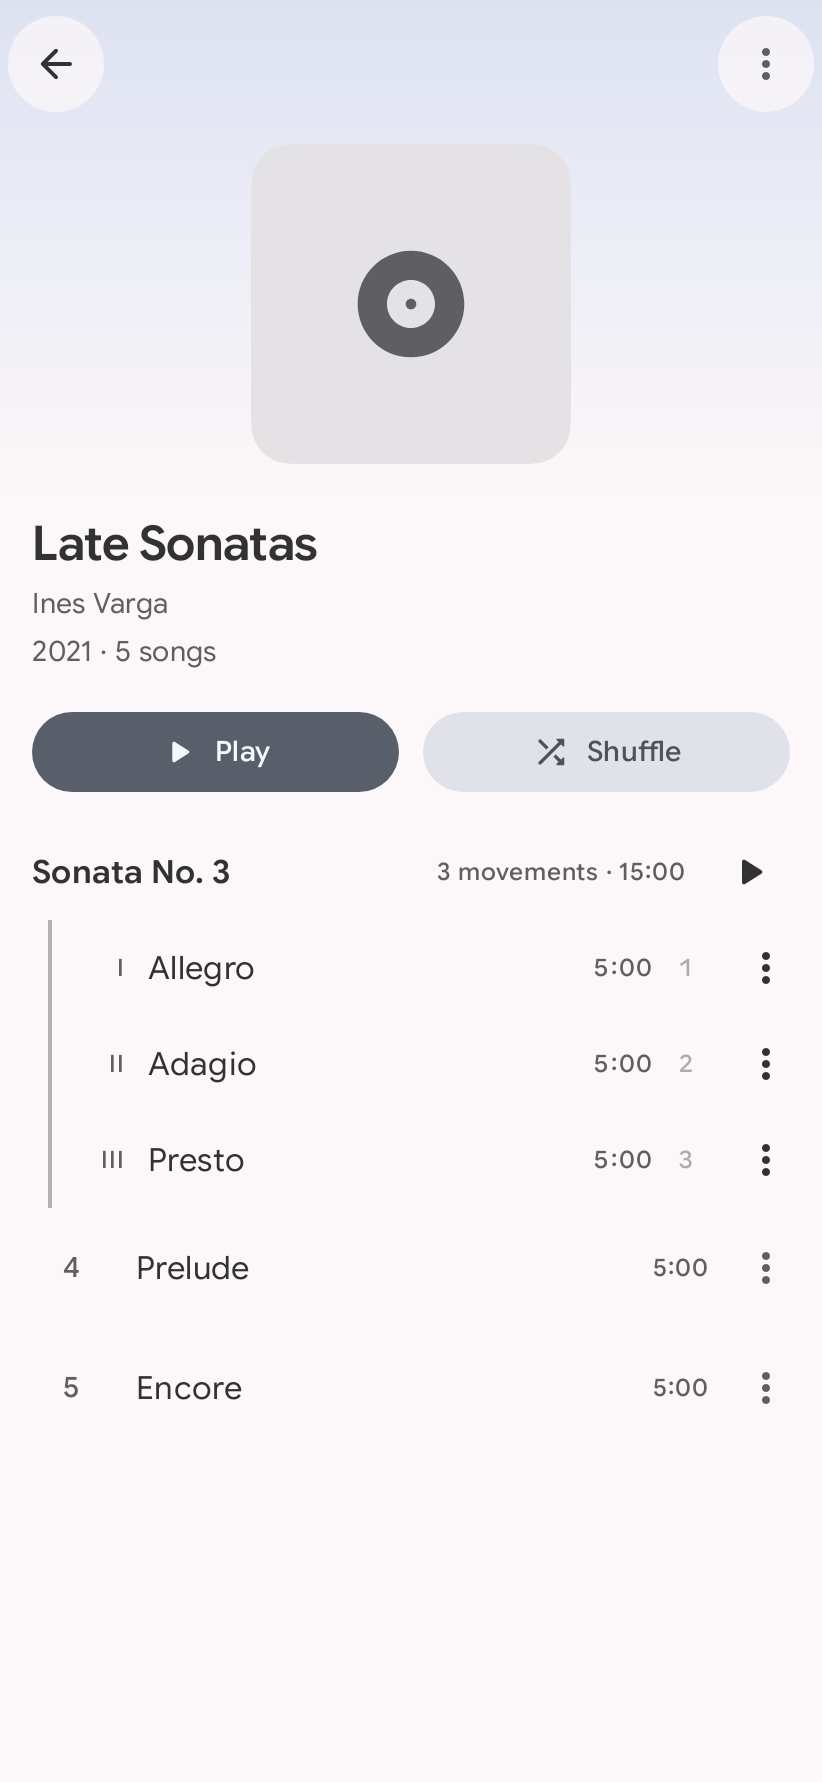
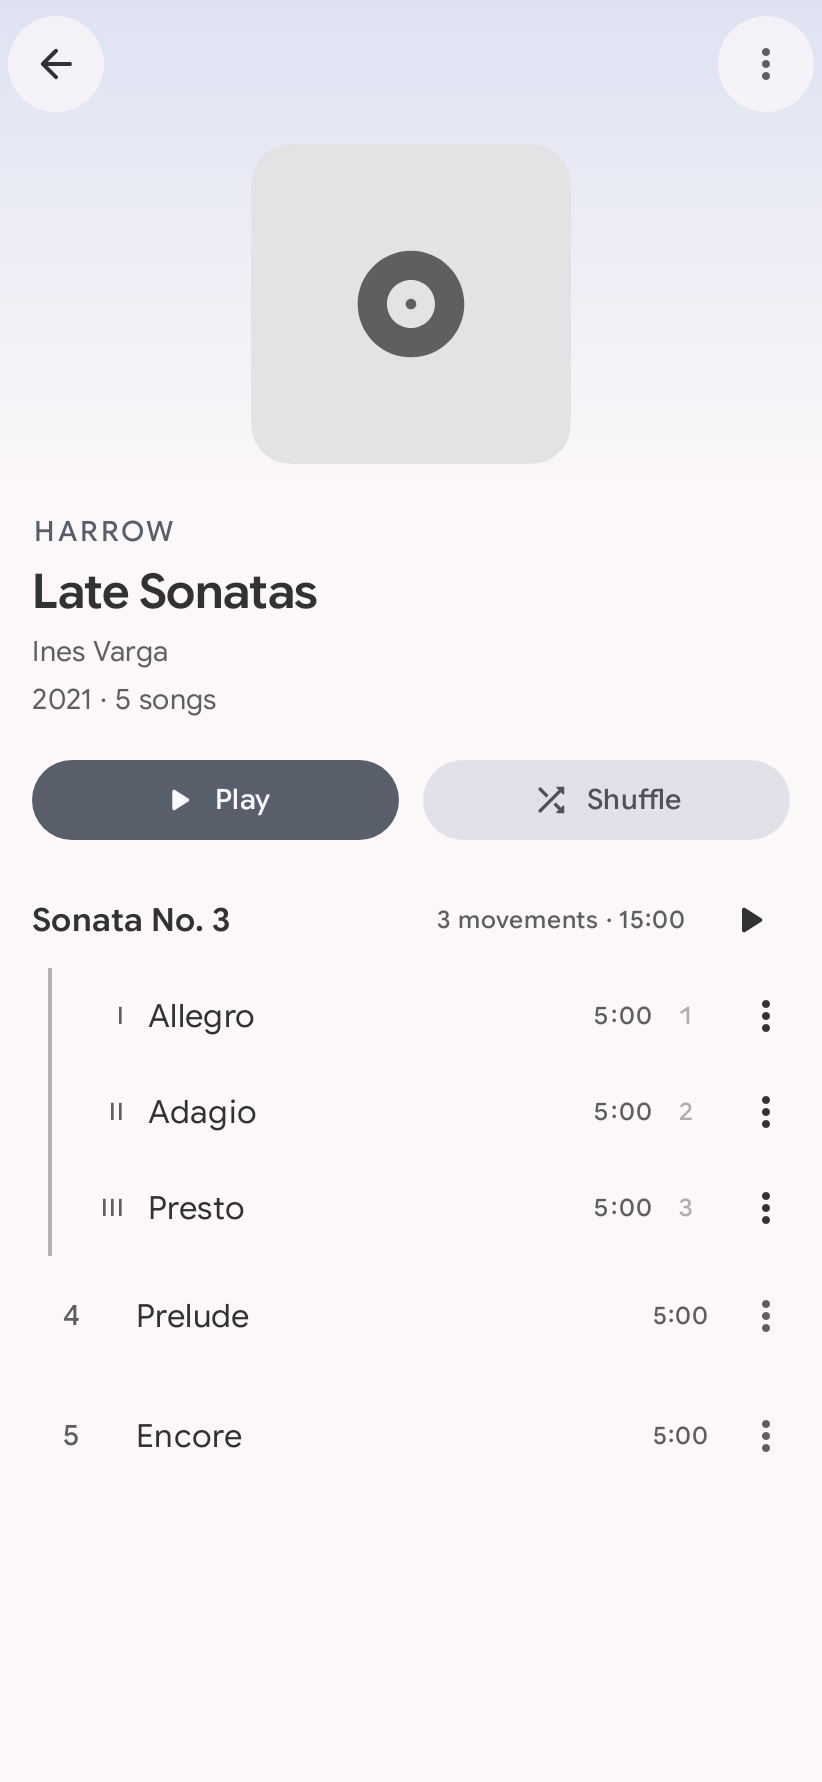
test(app): expect the composer eyebrow on a classical album with an untagged bonus track
Changelog: none

diff --git a/android/app/src/test/java/com/simplecityapps/shuttle/ui/screens/library/AlbumDetailScreenTest.kt b/android/app/src/test/java/com/simplecityapps/shuttle/ui/screens/library/AlbumDetailScreenTest.kt
@@ -140,8 +140,8 @@ class AlbumDetailScreenTest {
         robot.setAlbum(classicalAlbumDetail())
 
         robot.assertTextDisplayed("Sonata No. 3")
-        // The untagged encore means the album isn't all one composer's
-        robot.assertTextNotDisplayed("HARROW")
+        // The untagged encore is a bonus track and doesn't break "one composer"
+        robot.assertTextDisplayed("HARROW")
         robot.assertTextDisplayed("Allegro")
         robot.assertTextDisplayed("Adagio")
         robot.assertTextDisplayed("Presto")
